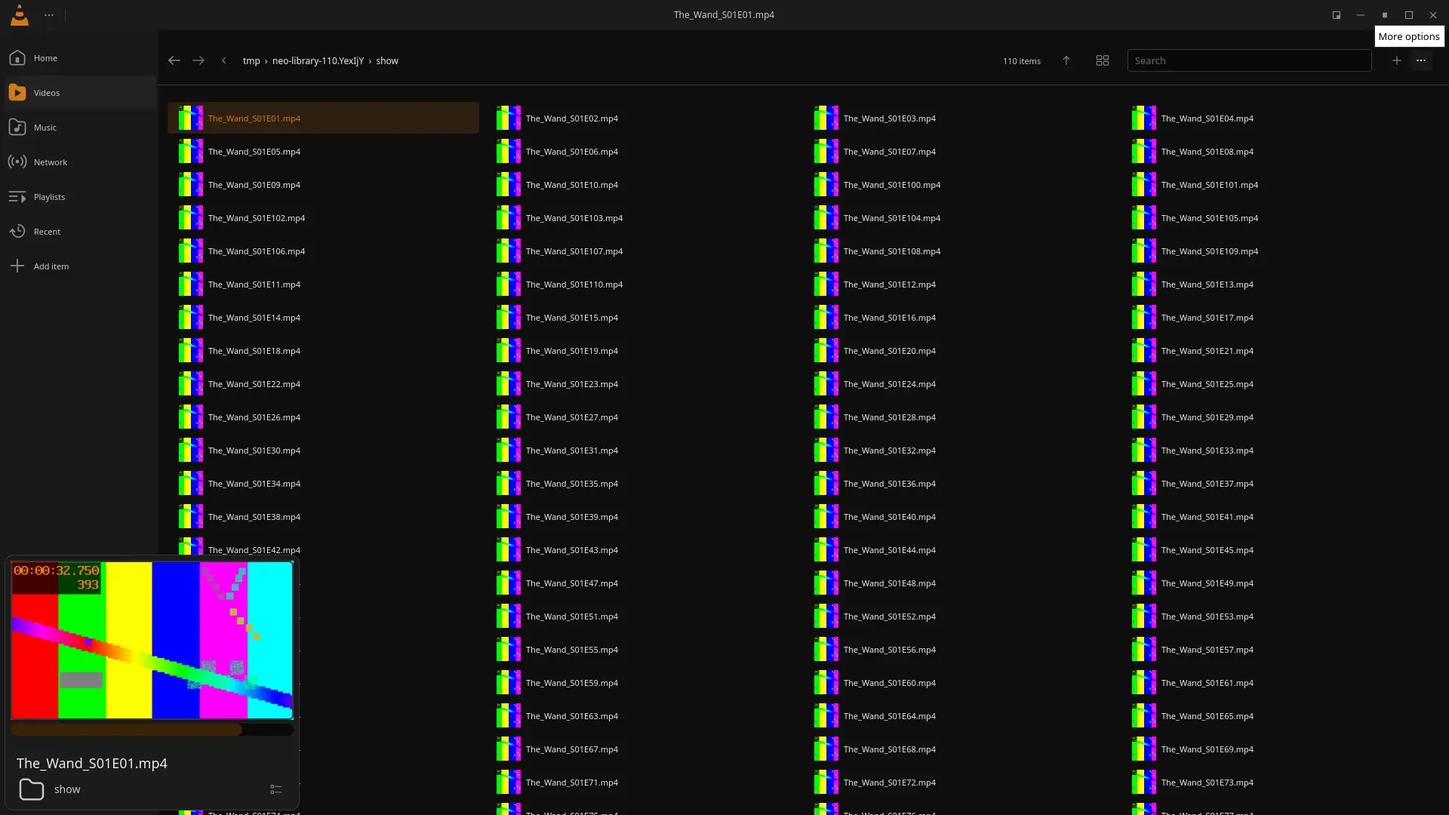
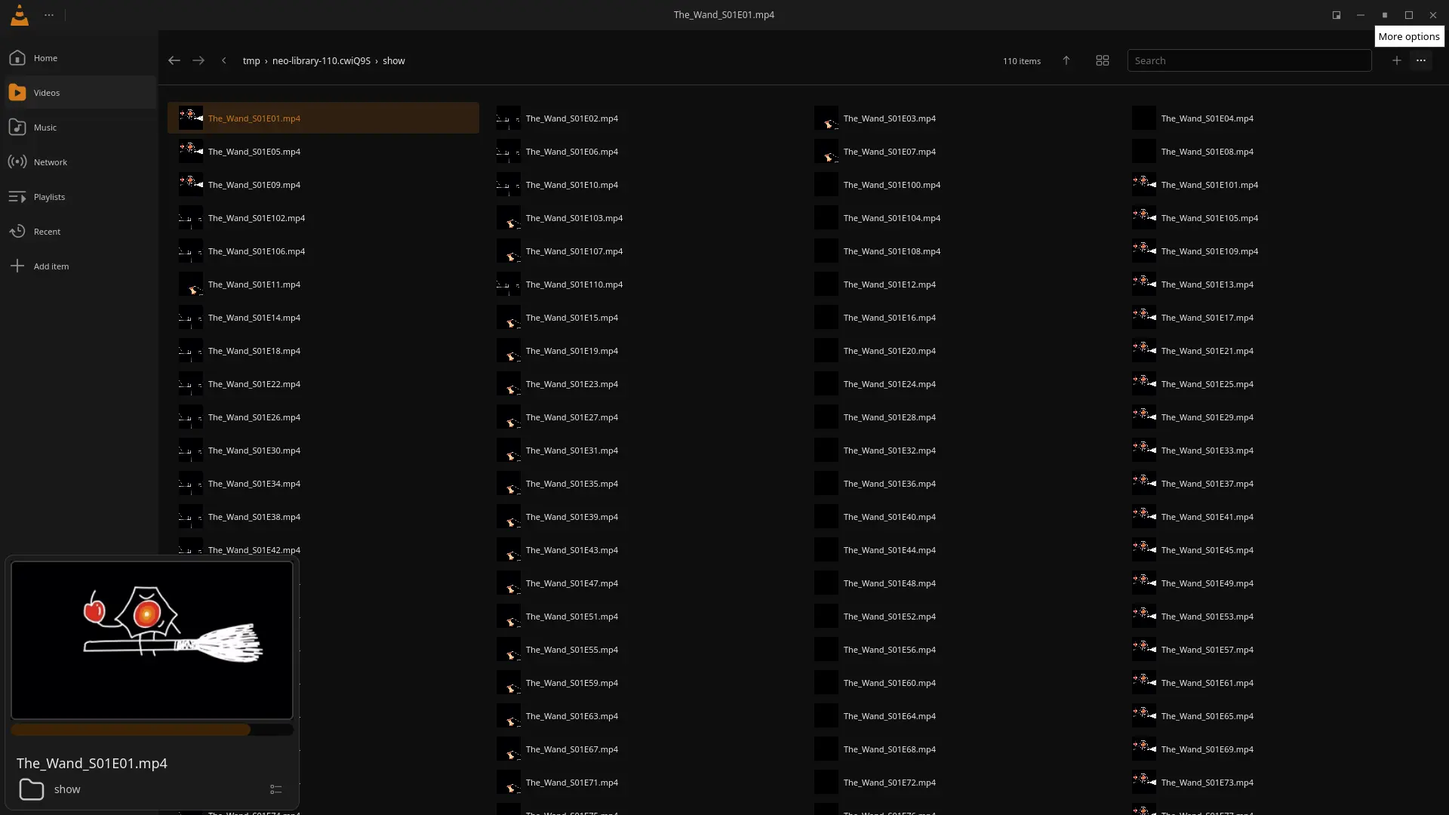
test(ui): use exact Figma media artwork in library captures

diff --git a/docs/figma-parity.md b/docs/figma-parity.md
@@ -13,7 +13,7 @@ The matrix has 25 grouped rows covering all 57 screen frames. Each row has an ex
 
 The **9 implemented / 16 partial / 0 not started** count describes Figma screen groups only (25 grouped rows covering 57 screen frames). Across phases 05–09, **3 phases are complete, 2 are in progress, and 0 are unstarted**. The latest completed cross-distro run is CI [`40856978736`](https://github.com/alexandreolives/vlc-neo/actions/runs/40856978736) for code commit `0d004b3` on 2026-10-29. Arch and Linux Mint both passed the build and all 14 CTests and all 869 real-VLC smoke assertions. The 110-item library probe passed on Arch; the 50,000-item search probe returned one exact row in 151 ms on Arch and 105 ms on Mint, with setters of 0 ms and 1 ms respectively. Those assertions include literal-percent filenames. Mint install and uninstall checks preserved the distribution Qt version and VLC desktop entry. This run also validates the 324 px Home search field and the folder-toolbar text-metric tolerance.
 
-Focused Figma follow-up (2026-10-29): the wide folder toolbar search field was 190 px while the Player grid reference at node `970:2703` measures 324 px. The wide folder search now uses the 324 px reference width, the folder toolbar shows Figma's overflow menu in place of the close icon, and its right-edge actions and preceding controls use adjusted gaps. `scripts/test-library-110-items.sh` probes the search and toolbar positions and opens the six-action overflow menu. The first focused run measured `folderToolbarGeometry=1329/1398/1446/1494/1836/1868`; Arch and Mint measured the count label at x=1325 because of a 4 px font-metric difference, while all icon and search positions matched. The field starts at x=1494 and is 324 px wide. Refreshed [`folder-browser-110-grid.webp`](screenshots/folder-browser-110-grid.webp) and [`folder-browser-110-list.webp`](screenshots/folder-browser-110-list.webp) captures show the current toolbar and floating mini-player in both views; their color-bar media are synthetic fixtures. The test allows only the 1325–1329 text-label range and asserts the other toolbar coordinates and overflow-menu behavior. CI run [`40840269745`](https://github.com/alexandreolives/vlc-neo/actions/runs/40840269745) passed this toolbar assertion on both Arch and Mint; both runs decoded all 88 visible list thumbnails, and the count label measured x=1325 while the icon/search coordinates matched the target. The revised assertion accepts only the 1325–1329 font-metric range.
+Focused Figma follow-up (2026-10-29): the wide folder toolbar search field was 190 px while the Player grid reference at node `970:2703` measures 324 px. The wide folder search now uses the 324 px reference width, the folder toolbar shows Figma's overflow menu in place of the close icon, and its right-edge actions and preceding controls use adjusted gaps. `scripts/test-library-110-items.sh` probes the search and toolbar positions and opens the six-action overflow menu. The first focused run measured `folderToolbarGeometry=1329/1398/1446/1494/1836/1868`; Arch and Mint measured the count label at x=1325 because of a 4 px font-metric difference, while all icon and search positions matched. The field starts at x=1494 and is 324 px wide. Refreshed [`folder-browser-110-grid.webp`](screenshots/folder-browser-110-grid.webp) and [`folder-browser-110-list.webp`](screenshots/folder-browser-110-list.webp) captures show the current toolbar and floating mini-player in both views; the episode posters now use the matching Figma stills. The test allows only the 1325–1329 text-label range and asserts the other toolbar coordinates and overflow-menu behavior. CI run [`40840269745`](https://github.com/alexandreolives/vlc-neo/actions/runs/40840269745) passed this toolbar assertion on both Arch and Mint; both runs decoded all 88 visible list thumbnails, and the count label measured x=1325 while the icon/search coordinates matched the target. The revised assertion accepts only the 1325–1329 font-metric range.
 
 Latest complete local verification at code commit `b878555` (Linux Mint 22.3): `cmake --build build -j2` succeeded, CTest passed **13/13**, and the complete real-VLC smoke suite passed **862/862**. This includes the Figma music skip controls, responsive Videos-pane widths, Library settings Figma-value and exact-label assertions, and the Low latency/Normal/Custom network-cache display and value-retention checks. The full smoke result is local; cross-distro CI run `40811644836` predates these UI changes. The installed plugin hash matches the build and the running VLC Neo process has the installed plugin mapped.
 
@@ -29,10 +29,10 @@ Workflow-dispatch run [`40148039254`](https://github.com/alexandreolives/vlc-neo
 
 | Phase | Verified now | Work that remains |
 |---|---|---|
-| **05 — Figma fidelity and interactions** | Latest full cross-distro run ([CI `40856978736`](https://github.com/alexandreolives/vlc-neo/actions/runs/40856978736), code commit `0d004b3`) passed 869/869 real-VLC smoke assertions on both Arch and Linux Mint, including the literal-percent filename regression. Both distributions passed the updated Home review assertion for four video cards, three music entries and four folder cards. Arch also passed the build and 14/14 CTests; Mint installer/uninstaller checks preserved system Qt and the VLC desktop entry. The run checks the Player-Light folder pane at 377 px and the first-row geometry `rowGeometry=63/125`; it also checks the compact 560×340 toolbar and search behavior. It includes the subtitle Appearance-before-OpenSubtitles ordering and checks that the API-key controls remain aligned at desktop and compact window sizes. It includes the full-width playback-bar correction for the open side-pane state and verifies the Music pane reaches the Figma 377 px width after its opening animation, while a stale resume prompt is dismissed on media change. Earlier focused checks confirm all six mini-player controls stay with the dragged card in Home and full library, fit Home/grid/list at 560×340, and dock/restore with Queue. The full suite exercises player, preferences, resize, hover/focus, keyboard, popups, libraries and network playback. The 206 local Figma SVGs are exact byte matches to the pinned Olmo export. | The 25 screen groups still contain 16 partial comparisons, principally visual closeout and environment-dependent cases. Remaining explicit items include matching sample media artwork (the authenticated Figma prototype embeds still images for its media examples, but the pinned icon/palette exports contain no source media and the embedded frames provide no separate video source or media-rights statement), verifying always-on-top under Hyprland, and confirming decoded video on the Hisense receiver (Neo reached Playing/Stopped, but receiver-side video and media GET were not observed). A physical Chromecast remains unverified. The user explicitly requires the mini-player to move; Home and full-library cards implement this and the six-step drag checks verify that all six controls stay attached. A direct browser inspection of Figma component set `970:3091` confirms five visual variants: Default, Queue card (Variant2), hover controls (Variant3), Queue hover (Variant4), and end-of-media Replay (Variant5). The Prototype inspector defines no transitions between these variants, so hover/drag timing and easing are not specified. Variant5 has no outgoing prototype link, so the Replay trigger is inferred from VLC behavior. Podcast and Radio catalog browsing has no matching Figma detail states and remains absent. |
+| **05 — Figma fidelity and interactions** | Latest full cross-distro run ([CI `40856978736`](https://github.com/alexandreolives/vlc-neo/actions/runs/40856978736), code commit `0d004b3`) passed 869/869 real-VLC smoke assertions on both Arch and Linux Mint, including the literal-percent filename regression. Both distributions passed the updated Home review assertion for four video cards, three music entries and four folder cards. Arch also passed the build and 14/14 CTests; Mint installer/uninstaller checks preserved system Qt and the VLC desktop entry. The run checks the Player-Light folder pane at 377 px and the first-row geometry `rowGeometry=63/125`; it also checks the compact 560×340 toolbar and search behavior. It includes the subtitle Appearance-before-OpenSubtitles ordering and checks that the API-key controls remain aligned at desktop and compact window sizes. It includes the full-width playback-bar correction for the open side-pane state and verifies the Music pane reaches the Figma 377 px width after its opening animation, while a stale resume prompt is dismissed on media change. Earlier focused checks confirm all six mini-player controls stay with the dragged card in Home and full library, fit Home/grid/list at 560×340, and dock/restore with Queue. The full suite exercises player, preferences, resize, hover/focus, keyboard, popups, libraries and network playback. The 206 local Figma SVGs are exact byte matches to the pinned Olmo export. | The 25 screen groups still contain 16 partial comparisons, principally visual closeout and environment-dependent cases. The latest Home and library review captures now use the three episode stills and two distinct music-cover exports embedded in the Figma Home frame; the clips are generated from the stills and attributed in [`FIGMA-HOME-ASSETS.md`](../tests/fixtures/FIGMA-HOME-ASSETS.md). Remaining explicit items include verifying always-on-top under Hyprland, and confirming decoded video on the Hisense receiver (Neo reached Playing/Stopped, but receiver-side video and media GET were not observed). A physical Chromecast remains unverified. The user explicitly requires the mini-player to move; Home and full-library cards implement this and the six-step drag checks verify that all six controls stay attached. A direct browser inspection of Figma component set `970:3091` confirms five visual variants: Default, Queue card (Variant2), hover controls (Variant3), Queue hover (Variant4), and end-of-media Replay (Variant5). The Prototype inspector defines no transitions between these variants, so hover/drag timing and easing are not specified. Variant5 has no outgoing prototype link, so the Replay trigger is inferred from VLC behavior. Podcast and Radio catalog browsing has no matching Figma detail states and remains absent. |
 | **06 — VLC preferences — Complete** | The phase acceptance criteria pass on VLC 3.0.20. No loss found in the 47 inherited keys: a fresh comparison with `upstream/main` finds 47 original VLC keys and zero missing references. A real-VLC audit checks all 155 declared options for a matching control, compatible VLC type, effective help text and agreement between displayed and backend values; installed VLC 3.0.20 exposes all 155 and passes 155/155. Arch VLC 3.0.24 omits the optional `postproc-name` and `postproc-q` config keys; CI verifies those controls stay hidden and audits the 153 options exposed by that build. It calls VLC’s setter for every option, relaunches, and confirms both the stored value and mapped control are restored (155/155); it deliberately toggles 45 boolean options. [`test-preference-alternate-values.sh`](../scripts/test-preference-alternate-values.sh) changes all 155 options to another value accepted by the UI, confirms the control matches VLC, then confirms the changed value survives relaunch. It covers 44 booleans, 34 choices, 48 numeric values, four colors and 25 text fields. The test creates a private D-Bus session so VLC's single-instance IPC cannot redirect launches to an existing desktop process. The Simple/Advanced visibility, persistence and value-preservation checks pass. VLC omits core `verbose` from `vlcrc`; Neo stores that choice in its own settings and restores it before playback. The duplicate Developer mode row name was corrected so it no longer shadows the real `verbose` preference control. The alternate-value audit is wired into both Arch and Ubuntu package jobs; The full-branch smoke at `8b1d852` exposed cross-build assertions for optional Performance controls; commit `734139c` now tests required controls and confirms omitted options stay hidden. CI run `40035316028` passed the Arch preference audit, then failed its full smoke job; Mint also failed its full smoke job. In run `40115258817`, both package jobs passed their preference audits before failing at the 110-item geometry assertions. Current hardware inventory: one connected 1920×1080 internal display; PipeWire exposes two audio sinks. ALSA exposes the ALC256 internal analog PCM and HDMI PCM devices; the codec declares a fixed speaker and headphone controls, while the HDMI display connector is disconnected. Direct VLC ALSA output successfully opened and configured `hw:CARD=PCH,DEV=3` (HDMI 0), proving device initialization but not audible playback. The analog endpoint could be tried locally; its actual sound output has not been verified. | Latest cross-distro run [`40856978736`](https://github.com/alexandreolives/vlc-neo/actions/runs/40856978736) passed the option-mapping and alternate-value/relaunch audits on Arch and Mint, covering the declared options each VLC build exposes. The preference acceptance criteria are complete. External-display selection and audible output on the internal analog ALSA endpoint remain separate hardware checks. |
 | **07 — timeline and subtitles — Complete** | Subtitle timing and absent-subtitle states, keyboard seeking, asynchronous thumbnails/waveforms, bounded decode/cache behavior and a one-hour audio file are exercised. Waveform decoding now scales its deadline from 20 seconds to at most ten minutes based on media duration; a real-VLC run confirms the one-hour fixture finishes and CTest covers the timeout bounds. `bounded_image_cache_test` verifies the 16 MiB image-cache cost ceiling and confirms that the least-recently-used frame is evicted while the newest remains available. An 80-request overload test confirms 64 complete, 16 reject cleanly, and a later request recovers. Cancellation tokens now propagate into both video-frame and waveform VLC processes, which are killed when their image requests are abandoned. The smoke suite swaps an in-flight long waveform on both workers for short waveform requests and confirms both replacements finish. It verifies that the video request is still loading when it is replaced, then checks that `t=0` returns the red frame and `t=4` the blue frame. [`test-waveform-variety.sh`](../scripts/test-waveform-variety.sh) loops each licensed 10-second CC0 jazz, classical and electronic excerpt into a one-minute test track, opens each in VLC, waits for its async waveform and hashes the waveform region; all three distinct genre renders pass on longer media. The source excerpts are documented in [`WAVEFORM-LICENSES.md`](../tests/fixtures/WAVEFORM-LICENSES.md). | Latest cross-distro run [`40856978736`](https://github.com/alexandreolives/vlc-neo/actions/runs/40856978736) passed the full smoke suite, 14 CTests, and waveform checks on Arch and Mint. The timeline/subtitle acceptance criteria are complete, including absent-subtitle behavior, exact seeking, async decode, cancellation and bounded caches. Broader testing against long-form music recordings is optional content coverage. |
-| **08 — media library — Complete** | Async indexing, tags/art, album/artist/genre search, persistence, folder removal, cache cleanup, query failure/recovery and a 50,000-row search are covered. The scale probe confirms that a superseded search leaves the exact final result: CI run [`40856978736`](https://github.com/alexandreolives/vlc-neo/actions/runs/40856978736) returned one matching row in 151 ms on Arch and 105 ms on Mint, with search setters of 0 ms and 1 ms respectively; both report the replacement search superseding an in-flight query. Figma node `970:3308` shows a folder with 110 `The_Wand_S01E*.mp4` items. [`test-library-110-items.sh`](../scripts/test-library-110-items.sh) creates 110 lightweight episode-name hard links, indexes all 110 asynchronously, confirms the video query returns 110 rows, checks grid/list modes and an exact filename search, and captures both modes. It asserts at least 12 of the first 15 thumbnails become ready within six seconds in both grid and compact-list modes, and that all 88 thumbnail-bearing cells in the compact-list viewport finish within twenty-four seconds. The latest focused run observed 15/15 initial-viewport thumbnails ready after six seconds in both grid and list, then 88/88 list thumbnails ready after twenty-four seconds, while preserving the two-worker bound; the 110-item threshold probe passed on both Arch and Mint in CI run [`40856978736`](https://github.com/alexandreolives/vlc-neo/actions/runs/40856978736), with 15/15 thumbnails ready in each view and 88/88 visible list thumbnails decoded. Thumbnails ask VLC for the first frame using scene ratio 1 and a 200 ms stop window. A like-for-like 320×180/12 fps VLC benchmark fell from 2.16 s and 60,252 KiB peak RSS to 0.34 s and 57,880 KiB; output fell from two scene images to four. A direct `browser` comparison with node `970:3792` corrected the full-library list mini-player placement: it sits at (6,735), 391×339, aligned to the window's lower-left edge and layered above the navigation rail; grid mode remains lower-right. The 2026-10-25 focused run indexes all 110 items, renders 15/15 initial thumbnails and 88/88 visible list thumbnails, and measures `geometry=135/237/140/32/32/6/735/391/339/true` (the final value asserts it is parented to the window and above the rail). The repeated color-bar frames verify thumbnail plumbing only; they do not match the Figma episode artwork. | The phase's functional acceptance criteria are complete: local artwork is read from media tags or folder covers, and indexing/search, persistence, folder removal and cache cleanup are covered. The Figma sample episode artwork differs from the color-bar fixture; this is a Phase 05 visual-fidelity follow-up. The authenticated browser exposes embedded still images, but not source media or a separate rights statement, so use of those stills in a public fixture remains unverified. |
+| **08 — media library — Complete** | Async indexing, tags/art, album/artist/genre search, persistence, folder removal, cache cleanup, query failure/recovery and a 50,000-row search are covered. The scale probe confirms that a superseded search leaves the exact final result: CI run [`40856978736`](https://github.com/alexandreolives/vlc-neo/actions/runs/40856978736) returned one matching row in 151 ms on Arch and 105 ms on Mint, with search setters of 0 ms and 1 ms respectively; both report the replacement search superseding an in-flight query. Figma node `970:3308` shows a folder with 110 `The_Wand_S01E*.mp4` items. [`test-library-110-items.sh`](../scripts/test-library-110-items.sh) creates 110 lightweight episode-name hard links, indexes all 110 asynchronously, confirms the video query returns 110 rows, checks grid/list modes and an exact filename search, and captures both modes. It asserts at least 12 of the first 15 thumbnails become ready within six seconds in both grid and compact-list modes, and that all 88 thumbnail-bearing cells in the compact-list viewport finish within twenty-four seconds. The latest focused run observed 15/15 initial-viewport thumbnails ready after six seconds in both grid and list, then 88/88 list thumbnails ready after twenty-four seconds, while preserving the two-worker bound; the 110-item threshold probe passed on both Arch and Mint in CI run [`40856978736`](https://github.com/alexandreolives/vlc-neo/actions/runs/40856978736), with 15/15 thumbnails ready in each view and 88/88 visible list thumbnails decoded. Thumbnails ask VLC for the first frame using scene ratio 1 and a 200 ms stop window. A like-for-like 320×180/12 fps VLC benchmark fell from 2.16 s and 60,252 KiB peak RSS to 0.34 s and 57,880 KiB; output fell from two scene images to four. A direct `browser` comparison with node `970:3792` corrected the full-library list mini-player placement: it sits at (6,735), 391×339, aligned to the window's lower-left edge and layered above the navigation rail; grid mode remains lower-right. The 2026-10-25 focused run indexes all 110 items, renders 15/15 initial thumbnails and 88/88 visible list thumbnails, and measures `geometry=135/237/140/32/32/6/735/391/339/true` (the final value asserts it is parented to the window and above the rail). The repeated color-bar frames verify thumbnail plumbing only; they do not match the Figma episode artwork. | The phase's functional acceptance criteria are complete: local artwork is read from media tags or folder covers, and indexing/search, persistence, folder removal and cache cleanup are covered. The Home and library review fixtures now use the corresponding embedded Figma poster stills; the synthetic test videos are generated from those images because the design contains no source video. Their Figma Community attribution is recorded in [`FIGMA-HOME-ASSETS.md`](../tests/fixtures/FIGMA-HOME-ASSETS.md). |
 | **09 — filters, profiles and advanced actions** | VLC applies video/audio filters; named profiles persist playback, output-module and available ALSA-device settings; MP3, H.264/AAC MP4 and VP8/Vorbis WebM outputs are probed. `scripts/test-vlc-video-filter-render.sh` verifies the real decoded video output changes when the VLC `adjust` filter sets saturation to zero: the sampled red frame changes from `(253,0,0)` to grayscale `(75,75,75)`. It also compares embedded VLC captures before and after each of the eight video-effect tiles (`sepia`, `invert`, `posterize`, `oldmovie`, `gaussianblur`, `sharpen`, `vhs`, `grain`); the latest local run observed changed pixels for all eight. This probe is included in both CI package jobs. A focused real-VLC run confirms stopping a conversion removes the partial file and a subsequent conversion succeeds to the same destination; the full smoke run verified all three completed formats. The MP4 converter now offers an opt-in to burn the selected subtitle file or embedded track into the picture; VLC 3.0.20 cannot encode the selected text track as a separate MP4 stream. The smoke test compares decoded frames with and without burn-in and confirms the output contains no separate subtitle stream. Receiver tests captured and decoded H.264/AAC from UDP and RTP (after removing its RTP header), and UDP output contains DVB subtitle packets from external and embedded subtitles. Run `40115258817` captured an HTTP stream with HTTP 200 and 844 KB of MPEG-TS, but its strict decoder check failed. After the receiver check stopped treating an intentional stream stop as a fatal packet error, run `40144127630` confirmed H.264/AAC decode from HTTP on both Arch and Mint. The Network dialog also opens a third-party HLS M3U8. DLNA can now serve a currently playing local file through a temporary HTTP relay bound to the interface selected for the renderer's route; the endpoint serves only that file through an opaque token, supports HEAD and byte ranges, streams in bounded chunks, and stops on disconnect or failed playback setup. The focused `local_media_http_server` test exercises GET, HEAD, bounded/open/suffix ranges, 416, path isolation, method rejection, interface route selection, and a 512 KiB transfer. Renderer discovery uses independent Cast and Settings dialog leases: closing one dialog keeps discovery running for another open consumer, the last close stops SSDP/VLC discovery, and stopping discovery retains the selected renderer instead of clearing VLC's active output. A focused real-VLC run covers overlapping dialog leases and last-close cleanup; local discovery continues after SSDP bind failure, but no physical receivers were found. The optional `scripts/test-dlna-local-cast.py` integration probe uses real VLC Neo with a temporary SSDP/UPnP renderer: it verifies local-file relay with exact-byte GET and Range requests, `SetAVTransportURI`, Play, Seek, Pause, Resume, Stop and disconnect; it asserts the expected request counts for start, resume, initial position, user seek, pause and stop, catching duplicates from status polling, and the latest run passed. The DLNA mute toggle now changes its cached/UI state exactly once, and remote Stop updates transport state and emits the usual state events. After renderer activation, VLC Neo now polls read-only transport and position state every two seconds so external pause/stop actions and seeks update the interface; user transport commands are still sent only on interaction. | A physical Hisense TV is now confirmed on the LAN as a DLNA MediaRenderer (`192.168.0.12`, SSDP description `SmartTV` / `Renderer`). A real VLC Neo session discovered it and `setRenderer` returned success for a locally relayed H.264/AAC sample; the UI status progressed to `Playing` after a Play action and then to `Stopped` after Stop. This verifies renderer selection and transport commands, but the TV's visible video output and its media GET were not independently observed. The latest host check at 08:45 UTC on 2026-10-29 still finds `192.168.0.12` in FAILED neighbor state on `wlo1`; Avahi browse found no `_googlecast._tcp`, `_airplay._tcp` or `_mediarenderer._tcp` services. Receiver-side video/GET and physical Chromecast checks therefore remain open. The decoded-pixel filter probe passes locally. CI run `39861641770` passed M3U playback and media resolution on Arch and Mint; a focused local VLC check also confirms adding two HTTP URLs preserves the current playlist item and creates three queue entries. CI run `40144127630` passed H.264/AAC decode from the HTTP receiver payload on both Arch and Mint; the same run passed the UDP and RTP receiver decoders. The conversion dialog continues to test real VLC MP3, MP4 and WebM output. |
 
 Separate compatibility/environment items: installed VLC 3.0.20 fails to read `.vlp` manifests before discovery, so managed extension install/removal is unverified; a compatible VLC build is needed. Hyprland, multiple monitors, physical media keys, Chromecast, remote-device access, Last.fm/OpenSubtitles live credentials, and other audio backends require those environments or accounts. These dependencies are not counted as missing UI screens.
@@ -239,7 +239,7 @@ The refreshed recording screenshot uses an isolated config with “Play locally 
 The same `6571:16429` capture shows the x264 encoding preset as “Medium”, while VLC's unset `sout-x264-preset` value was rendered as “Automatic”. `VlcOption` now maps the empty VLC value to the real `medium` choice for display; selecting it writes `medium`, which leaves x264 on its default preset. The same-size capture and focused offscreen check now show `Medium`, and the smoke suite asserts the alias without changing the original setting before the user selects a preset.
 
 MP4 subtitle-conversion follow-up (2026-10-29, commit `0d004b3`): the Convert dialog exposes “Burn selected subtitles into the video” only when MP4 and an active subtitle are available. VLC 3.0.20 has no subtitle encoder for creating a separate text track in MP4, so this option explicitly uses VLC's `soverlay` transcode and does not claim the result remains selectable. The full real-VLC smoke run passed **873/873** checks; it selected an embedded subtitle, toggled the dialog control, completed both burned and unburned conversions, confirmed the burned MP4 has no subtitle stream, and decoded different video pixels between the outputs. A focused run also added an external SRT and confirmed VLC burns it into the output. All **14/14 CTests** pass, including the existing Player facade and platform inhibition checks. The validated plugin was copied into the user plugin directory and the desktop VLC Neo process relaunched; the installed hash matches the build and the running process maps the updated plugin. Cross-distro run [`40856978736`](https://github.com/alexandreolives/vlc-neo/actions/runs/40856978736) also passed on Arch and Mint: both passed all 14 CTests and 869/869 smoke checks, including the subtitle-burn conversion regression; Mint package install/uninstall preserved the system Qt and VLC desktop entry.
-Home screen comparison (2026-10-29): Figma MCP rendered node `6261:15078` at 1600×900 from its 1920×1080 frame. A fresh 1920×1040 real-window capture aligns the 210 px expanded rail, content start, Home heading and first-shelf card bounds after accounting for the 40 px titlebar. The Figma reference shows 110 indexed items and its own episode artwork. The refreshed [`home-full-layout-review.webp`](screenshots/home-full-layout-review.webp) is a 1920×1080 real-VLC capture made with the asynchronous 110-video index; the review fixture supplies the visible 4-video/3-music/4-folder Home shelves and all four video thumbnails decode. This confirms the item count and layout, not artwork fidelity: its color bars and music art are synthetic, and the fourth folder label (`Downloads`) remains unverified against Figma. The source export still contains no corresponding episode posters or video files.
+Home screen comparison (2026-10-29): Figma MCP rendered node `6261:15078` at 1600×900 from its 1920×1080 frame. A fresh 1920×1040 real-window capture aligns the 210 px expanded rail, content start, Home heading and first-shelf card bounds after accounting for the 40 px titlebar. The Figma reference shows 110 indexed items and its own episode artwork. The refreshed [`home-full-layout-review.webp`](screenshots/home-full-layout-review.webp) is a 1920×1080 real-VLC capture made with the asynchronous 110-video index; the review fixture supplies the visible 4-video/3-music/4-folder Home shelves, all four episode thumbnails decode, and their posters and music covers now match the available Figma images. The fourth folder label (`Downloads`) remains unverified against Figma.
 
 OpenSubtitles API-key visual follow-up (2026-10-29): a real 1048×865 capture showed the inline field starting 124 px left of neighboring controls. The field and actions now follow the existing settings form language, with Save key as the primary action below the aligned 320 px field and Remove key as a secondary action. At 720×560 the label, explanation, full-width password field and actions remain inside the scroll viewport. The focused desktop and compact QML geometry probes both pass; the installed VLC Neo session was relaunched with this layout. `screenshots/settings-subtitles.webp` now contains the post-fix 1048×865 capture; the previous image predated the API-key layout correction.
 
@@ -257,6 +257,6 @@ Network cache-field visual follow-up (2026-10-29): comparison with Figma node `6
 
 Mini-player variant audit (2026-10-29): the authenticated `browser` editor was opened on Figma component set `970:3091` and all five variants were inspected at readable zoom. Variant3 shows the close/open and Previous/Play/Next hover overlay; Variant2 shows the card docked under Queue without the overlay; Variant4 shows the same docked card with controls; Variant5 replaces Play with Replay. The Prototype inspector lists no transitions on these variants. Neo's current drag behavior is therefore based on the user's explicit requirement, and its card/button tracking is already covered by the six-step smoke assertions.
 
-Player poster-grid alignment follow-up (2026-10-29): a fresh export of Figma node `970:2703` measures the first thumbnail at x=237/y=131, 316×178 px, with a 257 px row pitch. The 1920×1080 real-VLC probe previously placed it at x=230/y=143, 313×176 px, with 243 px rows. The grid now matches the Figma geometry; the list keeps its separate near-matching 140 px thumbnail top. The 110-item real-VLC probe reports `gridGeometry=237/131/316/178/388/257`, indexes all items asynchronously, renders 15/15 initial thumbnails and 88/88 visible list thumbnails, and passes search and mini-player checks. Its generated test-pattern media still differs from Figma's embedded artwork; the reference provides no source video or separate media-rights statement.
+Player poster-grid alignment follow-up (2026-10-29): a fresh export of Figma node `970:2703` measures the first thumbnail at x=237/y=131, 316×178 px, with a 257 px row pitch. The 1920×1080 real-VLC probe previously placed it at x=230/y=143, 313×176 px, with 243 px rows. The grid now matches the Figma geometry; the list keeps its separate near-matching 140 px thumbnail top. The 110-item real-VLC probe reports `gridGeometry=237/131/316/178/388/257`, indexes all items asynchronously, renders 15/15 initial thumbnails and 88/88 visible list thumbnails, and passes search and mini-player checks. The refreshed grid, list and Home captures now use exact Figma poster and music-cover stills; short silent clips generated from the poster images exercise real VLC thumbnail decoding. Attribution is recorded in [`FIGMA-HOME-ASSETS.md`](../tests/fixtures/FIGMA-HOME-ASSETS.md).
 
-Equalizer output verification follow-up (2026-10-29): `scripts/test-audio-equalizer-output.sh` runs in a private D-Bus session and uses real VLC's `afile` audio output to capture decoded PCM from a generated 1 kHz WAV with preamp 0 and 12. The local probe passed: middle-sample RMS changed from 511.9 to 2,037.8 (3.98×), confirming the equalizer affects decoded output and not only saved settings. The probe is now included in the Arch and Linux Mint CI jobs; cross-distro results are pending.
+Equalizer output verification follow-up (2026-10-29): `scripts/test-audio-equalizer-output.sh` runs in a private D-Bus session and uses real VLC's `afile` audio output to capture decoded PCM from a generated 1 kHz WAV with preamp 0 and 12. The probe opens the media twice at each setting and confirms the setting survives the input change. A local real-VLC run passed: middle-sample RMS changed from 511.9 to 2,037.8 (3.98×), and all 14 CTests pass after fixing the redundant equalizer reset on new input. The first Mint CI run exposed this reset; cross-distro verification of the fix is pending.

diff --git a/tests/fixtures/FIGMA-HOME-ASSETS.md b/tests/fixtures/FIGMA-HOME-ASSETS.md
@@ -1,0 +1,20 @@
+# Figma Home media artwork
+
+The `figma-home/` images were exported from the media artwork embedded in the
+Home screen (node `6261:15078`) of Juxtopposed's free [VLC Redesign Community
+file](https://www.figma.com/design/5UEUReDQz2dQjwoQDHY5z9/VLC-Redesign--Community-).
+Figma states that free Community files are published under
+[CC BY 4.0](https://creativecommons.org/licenses/by/4.0/). The original creator
+is credited here; the image files have been renamed for their matching media
+items.
+
+- `the-wand-s01e05.png`, `the-wand-s01e06.png`, `the-wand-s01e07.png`: the
+  three corresponding episode poster images.
+- `untangle.jpg`: the `untangle` music artwork.
+- `moonlight.png`: the matching green music-note artwork shown for both
+  `moonlight` and `black bird` in the Figma Home screen.
+
+The 110-item library probe encodes the three episode stills as short, silent
+video fixtures and crops them to 16:9 to exercise VLC's real thumbnail path.
+The fourth Home card in the Figma reference is black, so its fixture remains a
+black frame. No source video or audio recording is included.
